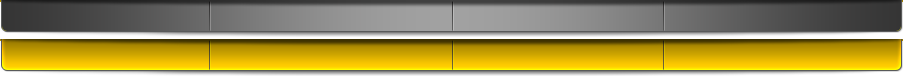
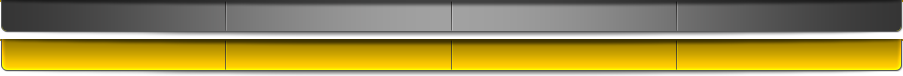
Divide navigation equally
Make all the navigation buttons equally wide and center the banner logo accordingly.

Changed region(s): [[0.4961, 0.1053, 0.5271, 0.3947], [0.4961, 0.5789, 0.5271, 0.7105]]

diff --git a/app/assets/stylesheets/scaffolds.css.scss b/app/assets/stylesheets/scaffolds.css.scss
@@ -87,7 +87,7 @@ header#site-header {
 	}
 	nav {
 		margin: 0 auto;
-		width: 904px;
+		width: 903px;
 		ul {
 			li {
 				color: #ddd;
@@ -119,27 +119,27 @@ header#site-header {
 				}
 				&#nav-button-1 {
 					background: transparent image-url('bkg_Navigation.png') 0 0 no-repeat;
-					width: 190px;
+					width: 206px;
 					&:hover,
 					&.selected { background: transparent image-url('bkg_Navigation.png') 0 -39px no-repeat; }
 				}
 				&#nav-button-2 {
-					background: transparent image-url('bkg_Navigation.png') -210px 0 no-repeat;
-					width: 223px;
+					background: transparent image-url('bkg_Navigation.png') -226px 0 no-repeat;
+					width: 206px;
 					&:hover,
-					&.selected { background: transparent image-url('bkg_Navigation.png') -210px -39px no-repeat; }
+					&.selected { background: transparent image-url('bkg_Navigation.png') -226px -39px no-repeat; }
 				}
 				&#nav-button-3 {
-					background: transparent image-url('bkg_Navigation.png') -453px 0 no-repeat;
-					width: 191px;
+					background: transparent image-url('bkg_Navigation.png') -452px 0 no-repeat;
+					width: 205px;
 					&:hover,
-					&.selected { background: transparent image-url('bkg_Navigation.png') -453px -39px no-repeat; }
+					&.selected { background: transparent image-url('bkg_Navigation.png') -452px -39px no-repeat; }
 				}
 				&#nav-button-4 {
-					background: transparent image-url('bkg_Navigation.png') -664px 0 no-repeat;
-					width: 219px;
+					background: transparent image-url('bkg_Navigation.png') -677px 0 no-repeat;
+					width: 206px;
 					&:hover,
-					&.selected { background: transparent image-url('bkg_Navigation.png') -664px -39px no-repeat; }
+					&.selected { background: transparent image-url('bkg_Navigation.png') -677px -39px no-repeat; }
 				}
 			}
 		}
